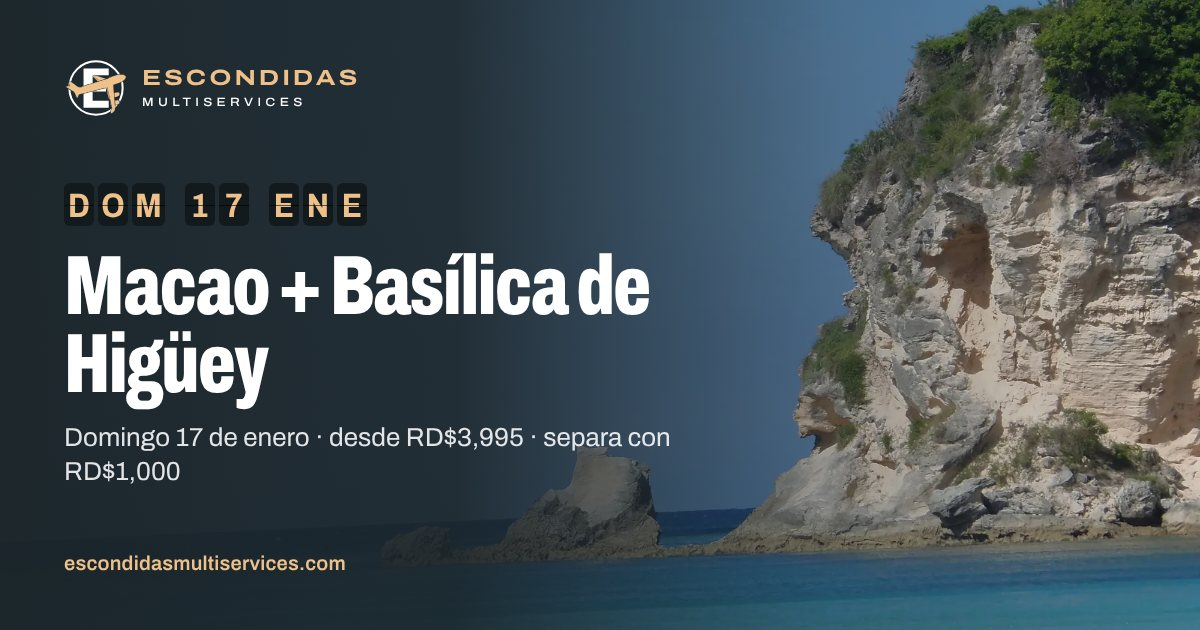
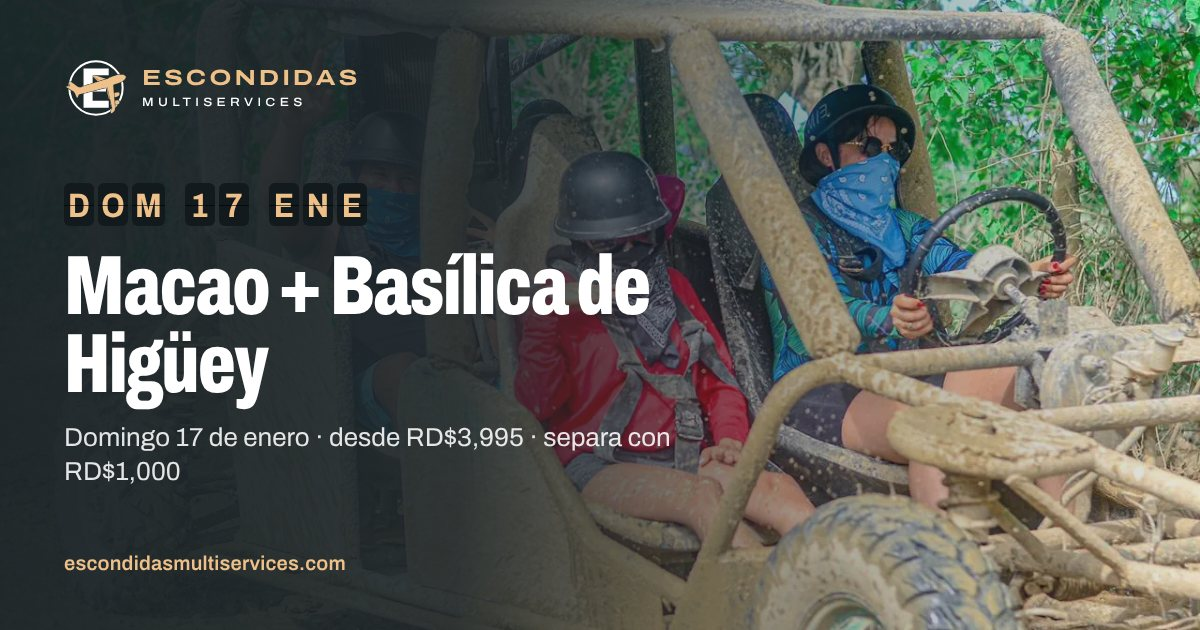
Fotos reales de Macao en la portada y la excursión
Cinco fotos de la excursión de Macao, tomadas del Drive del cliente
(carpeta "Contenido IG"), reemplazan fotogramas de video en los lugares
más visibles:

- La foto principal de Macao, que también se usa en la imagen para
  compartir en WhatsApp, ahora es un buggy real lleno de lodo.
- La galería de la excursión y la tira de la portada muestran al grupo,
  el brindis y las amigas en el buggy.
- La sección "Así se viven nuestras excursiones" de la portada ya no
  depende de que haya testimonios: las fotos la sostienen sola.

Cada foto puede declarar su punto de interés (foco) en datos.mjs, para
que los recortes verticales no corten las caras.

Claude-Session: https://claude.ai/code/session_014DoFgsnU6KxzYCSXWDs1VN

diff --git a/herramientas/medios.py b/herramientas/medios.py
@@ -73,6 +73,12 @@ FUENTES = {
     'hotel-ocean-el-faro': (UP + '869bee26-image.png', None, (0.33, 0.535, 0.91, 0.87), False),
     'hotel-presidential-suites': (UP + '762c4af1-image.png', None, (0.2, 0.128, 0.835, 0.508), False),
     'hotel-tropical-cofresi': (UP + 'eb685f6b-image.png', None, (0.17, 0.132, 0.87, 0.52), False),
+    # Nov 2026: fotos reales de la excursión de Macao (Drive del cliente, carpeta "Contenido IG")
+    'macao-grupo-buggies': (ENT + 'drive/macao-grupo-video.mp4', 4.5, None, True),
+    'macao-buggy-saludo': (ENT + 'drive/macao-buggy-saludo.jpg', None, None, False),
+    'macao-amigas-paz': (ENT + 'drive/macao-buggy-paz.jpg', None, None, False),
+    'macao-amigas-risas': (ENT + 'drive/macao-buggy-risas.jpg', None, None, False),
+    'macao-brindis': (ENT + 'drive/macao-grupo-brindis.jpg', None, None, False),
     'flyer-cayo-arena': (UP + 'c5fc5f18-image.jpg', None, None, False),
     'flyer-montecristi': (UP + '1034effe-image.jpg', None, None, False),
     'flyer-el-dorado': (UP + '56426480-image.jpg', None, None, False),
